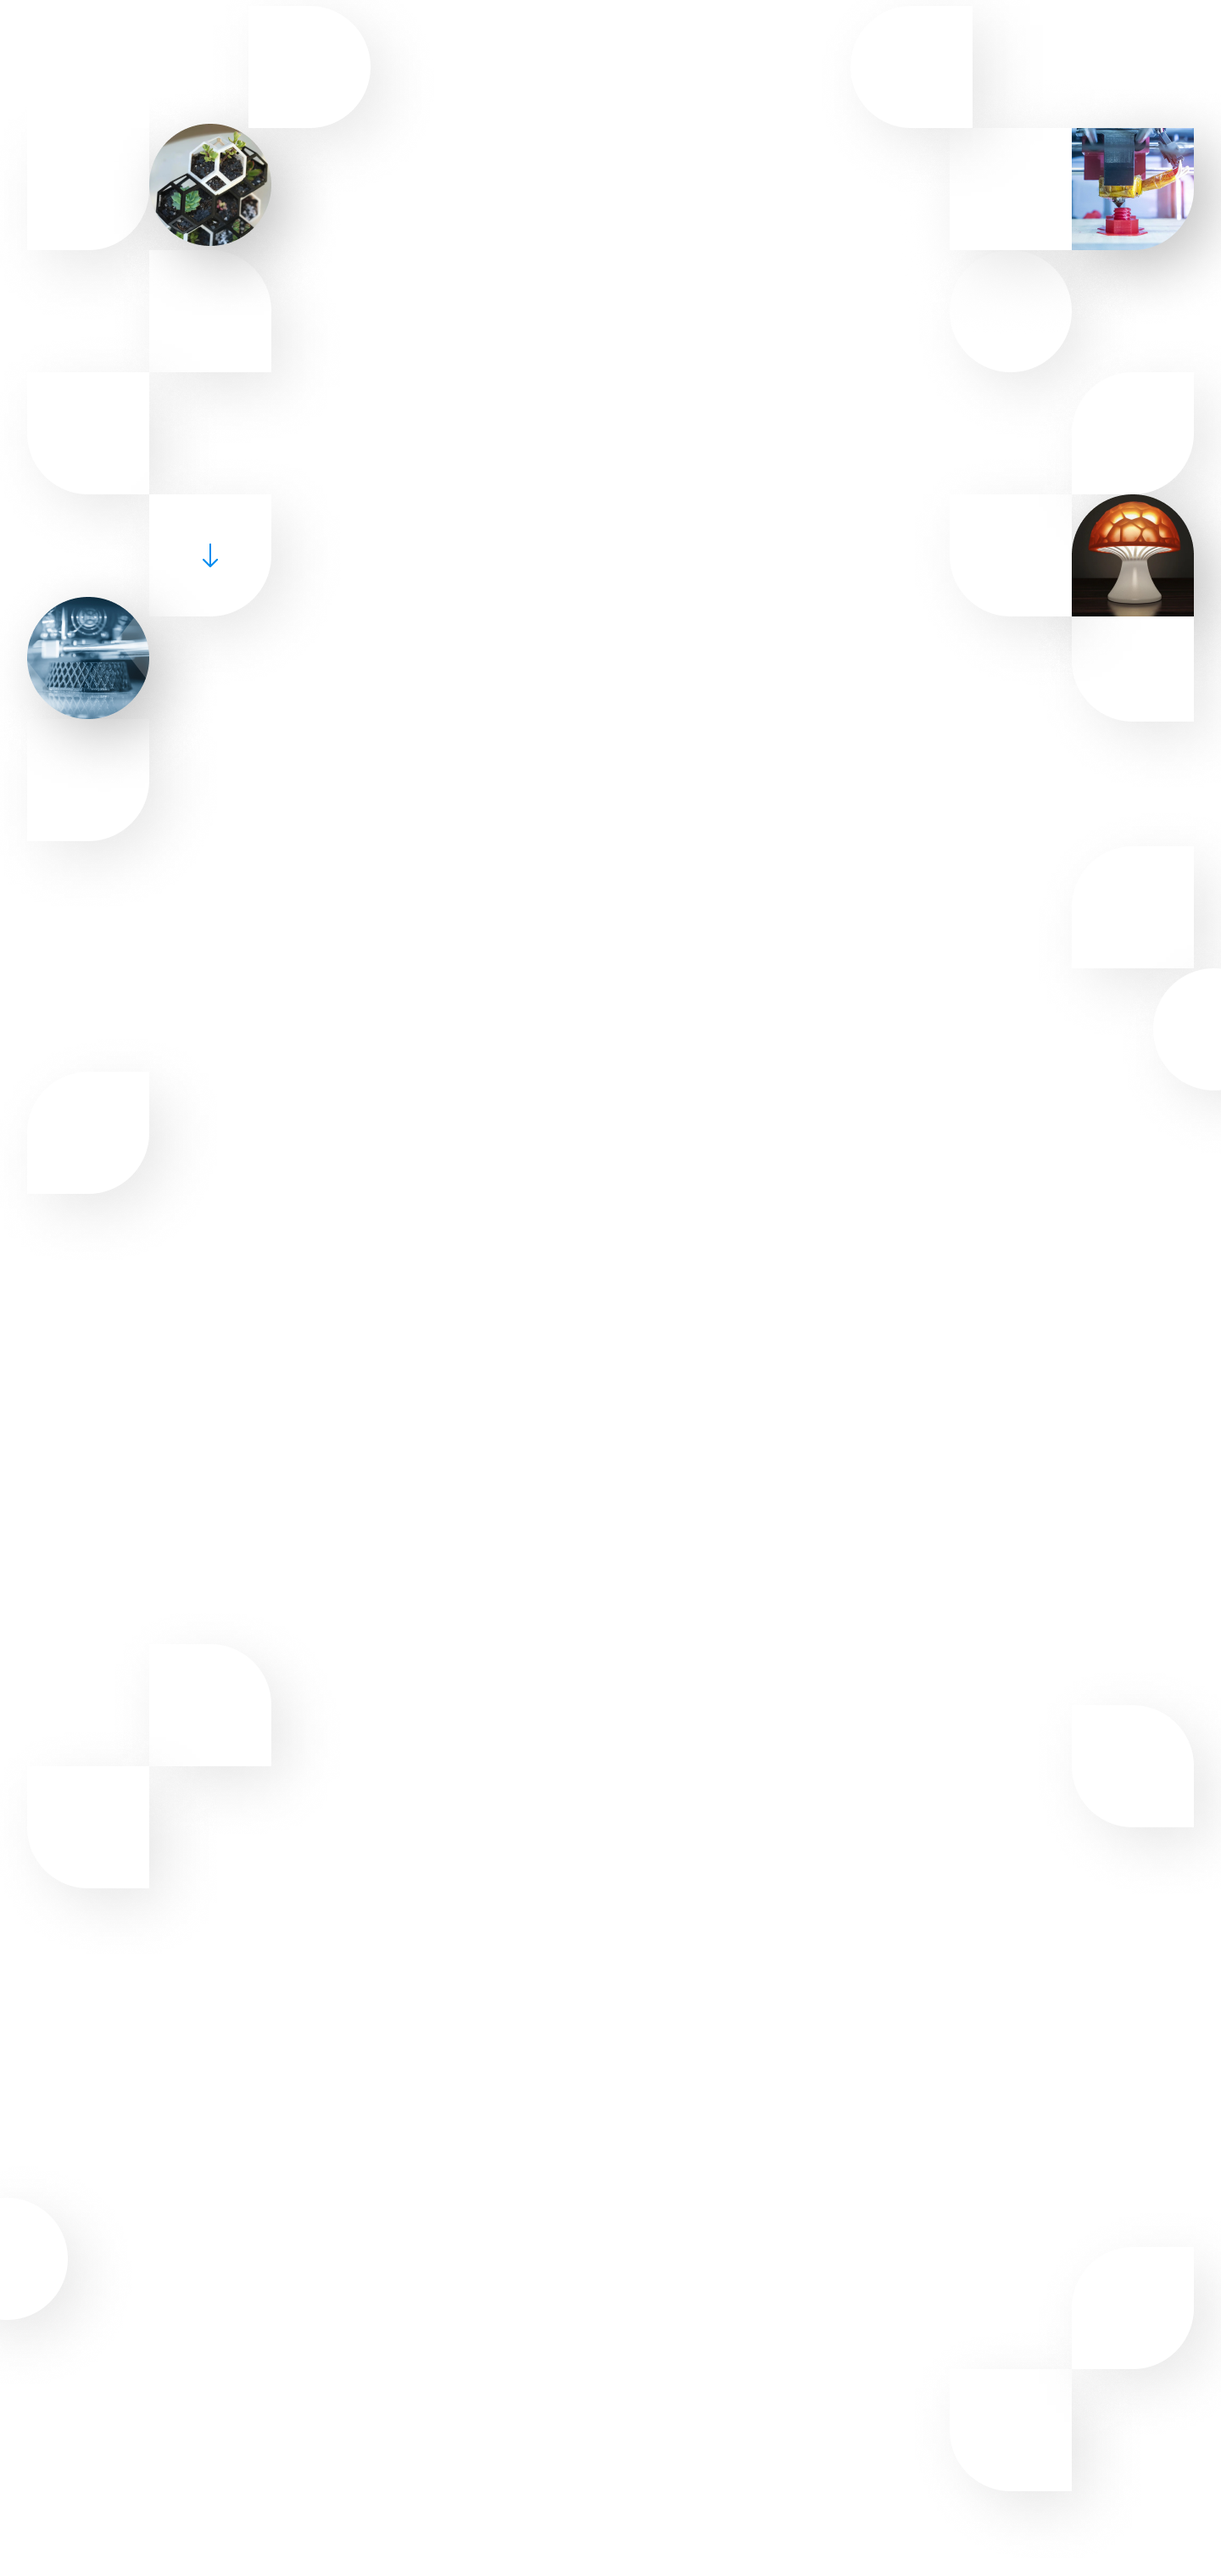
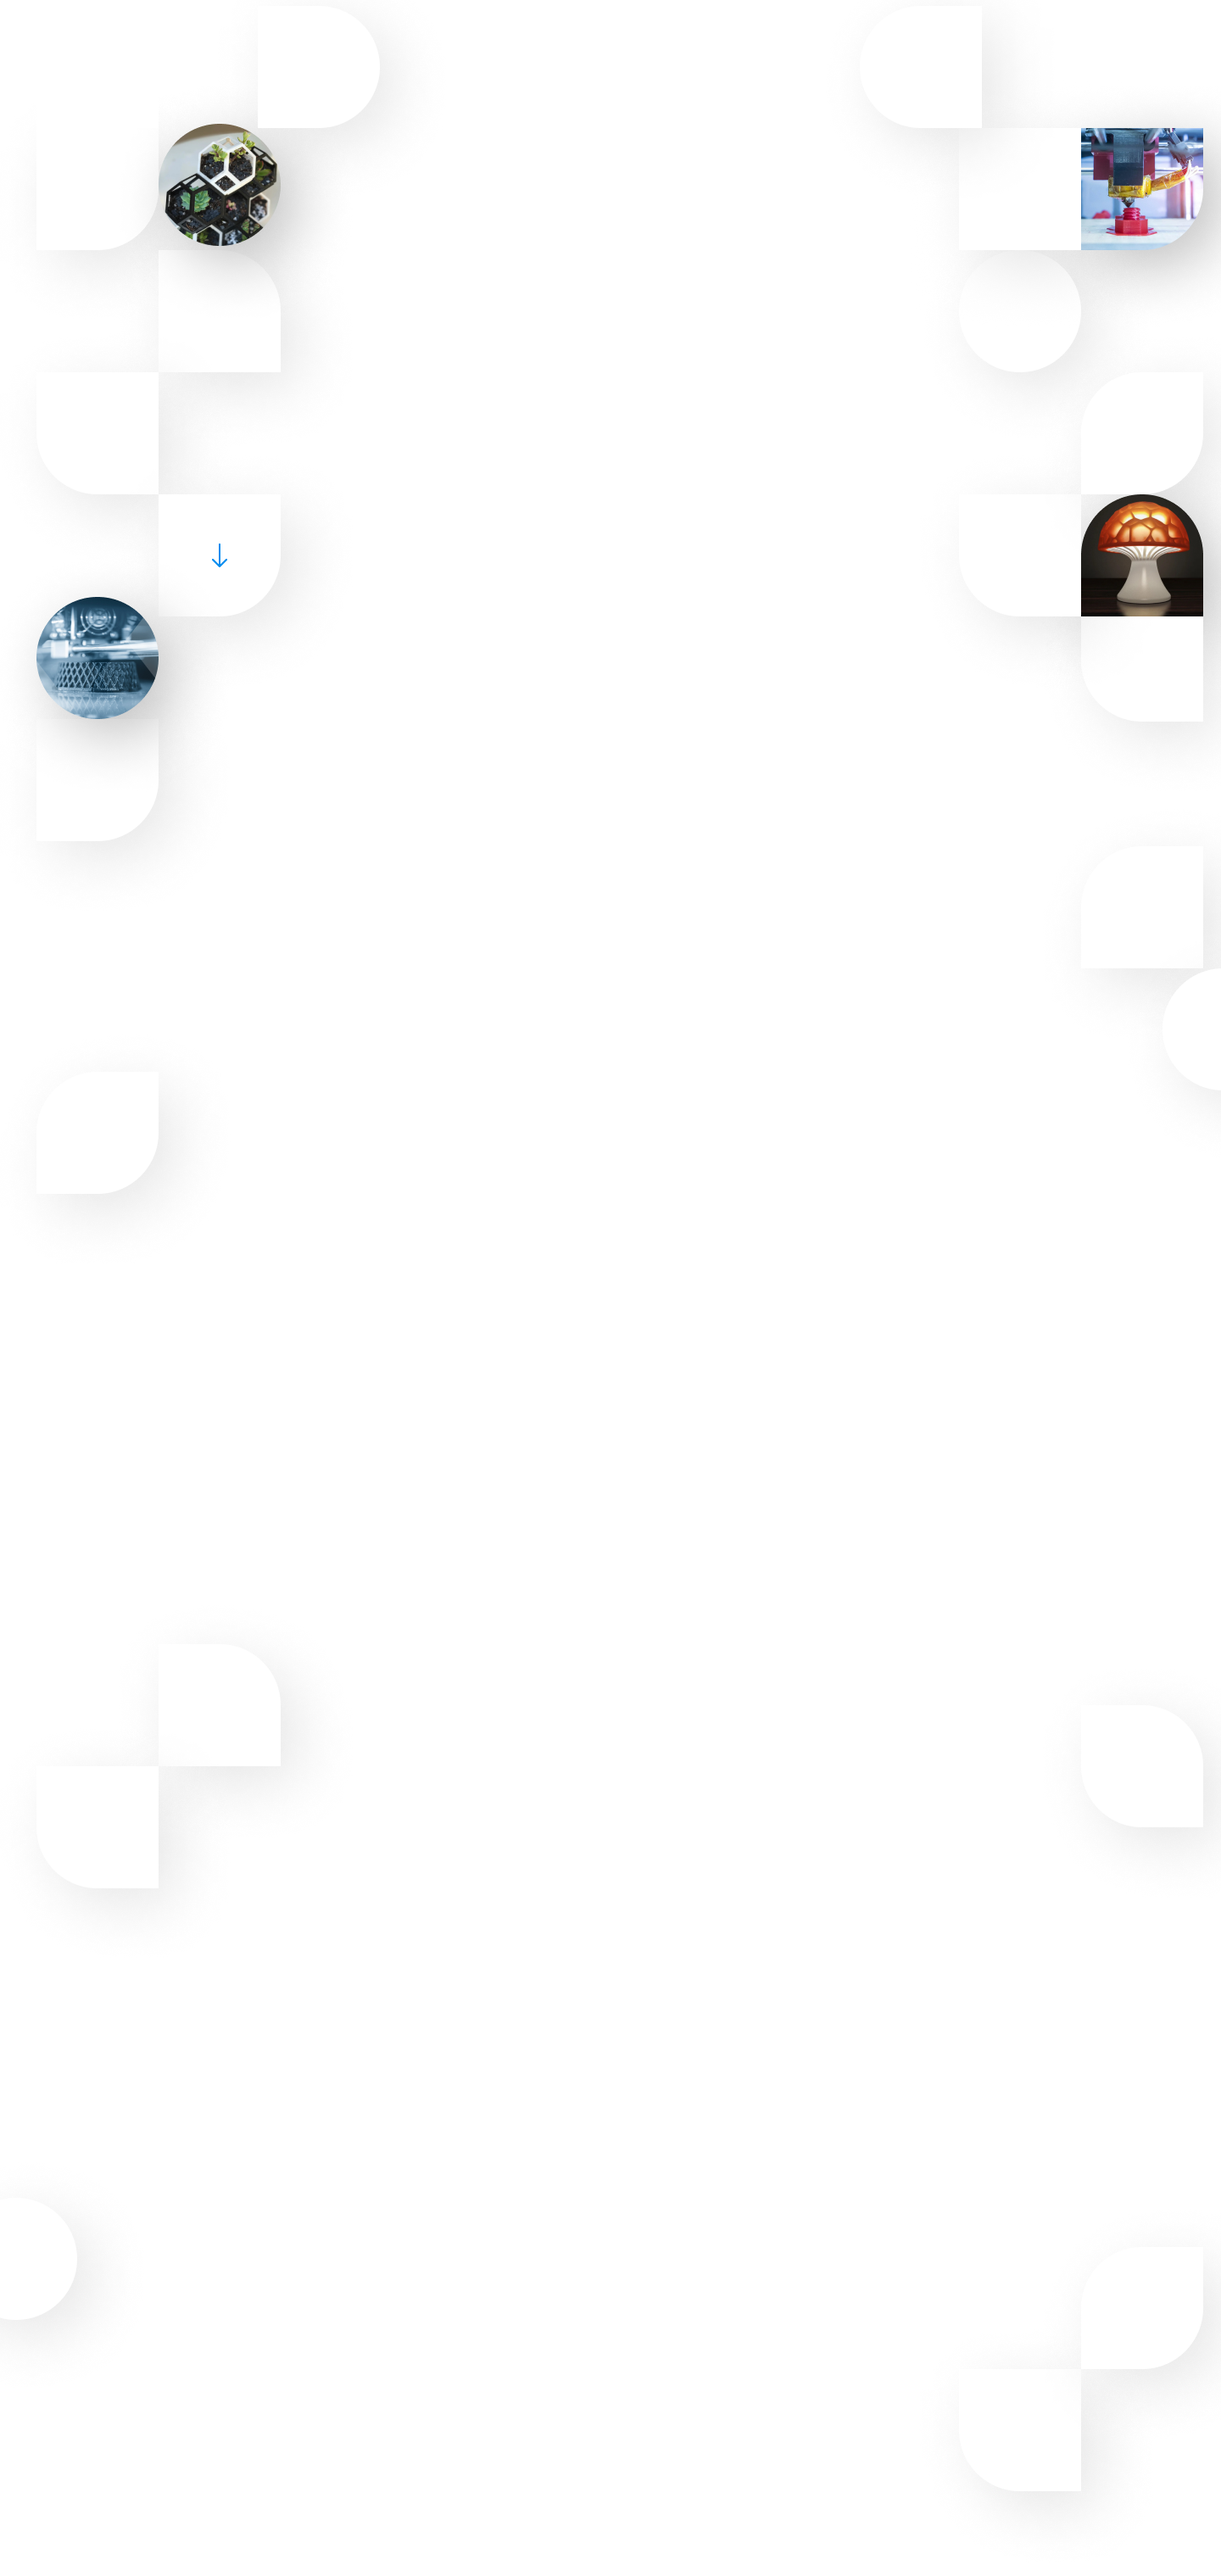
fix

diff --git a/src/index.html b/src/index.html
@@ -1,6 +1,5 @@
 <!DOCTYPE html>
 <html lang="ru">
-
 <head>
   <meta charset="UTF-8" />
   <meta name="viewport" content="width=device-width, initial-scale=1.0" />
@@ -16,7 +15,7 @@
     crossorigin="anonymous" />
 </head>
 <body>
-  <div class="wrapper">
+  <div class="wrapper home-page">
     <!-- header -->
     <include src="./partials/header.html"></include>
     <!-- hero-section -->

diff --git a/src/sass/_hero-section.scss b/src/sass/_hero-section.scss
@@ -1,6 +1,10 @@
 .home-hero {
   padding: 30px 0 25px 0;
 }
+.home-page {
+  background: url('../images/decor.png') center center no-repeat;
+  background-size: contain;
+}
 .home-hero-title {
   font-family: var(--primary-font);
   font-weight: normal;

diff --git a/src/sass/_base.scss b/src/sass/_base.scss
@@ -1,7 +1,9 @@
 html {
   box-sizing: border-box;
 }
-
+body {
+  margin: 0;
+}
 *,
 *::after,
 *::before {
